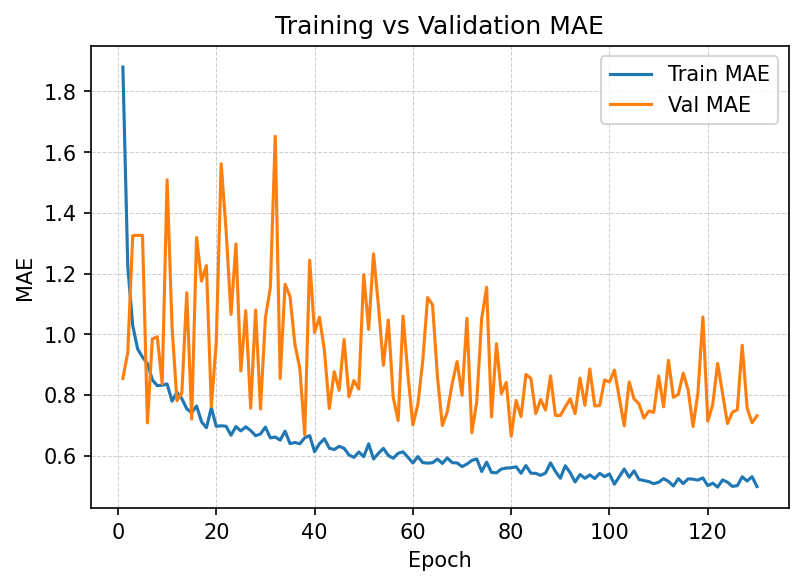
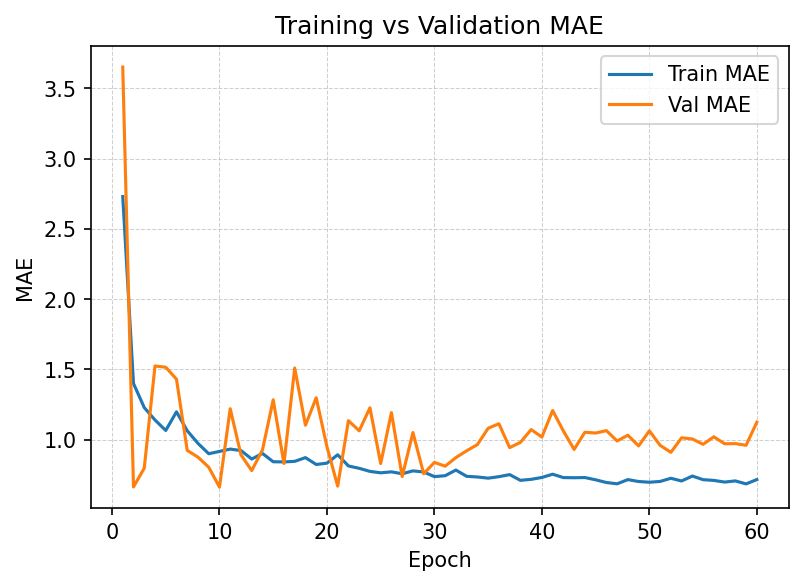
paramter changes

diff --git a/models/model_v4.2/train.py b/models/model_v4.2/train.py
@@ -2,13 +2,13 @@ import os
 import random
 from dataclasses import dataclass
 from pathlib import Path
-from typing import List, Tuple
+from typing import List, Sequence, Tuple
 
 import numpy as np
 import torch
 import torch.nn as nn
 import torch.optim as optim
-from torch.utils.data import DataLoader, Subset
+from torch.utils.data import DataLoader, Dataset, Subset
 
 from dataloader import PlantDatasetV4
 from model import LettuceMultiBranchCNN
@@ -25,16 +25,23 @@ class TrainConfig:
     rgb_dir: str = '../../datasets/Training/Augmented/RGBImages'
     depth_dir: str = '../../datasets/Training/Augmented/DepthImages'
 
-    batch_size: int = 64
+    batch_size: int = 64  
     num_epochs: int = 200
     lr: float = 1e-3    
     weight_decay: float = 1e-4
+    scheduler_factor: float = 0.5
+    scheduler_patience: int = 10
+    scheduler_min_lr: float = 1e-6
 
-    val_ratio: float = 0.2
+    val_ratio: float = 0.4
     seed: int = 42
     patience: int = 50
     # Matches 1 + num_aug_per_image from preprocess.py
     outputs_per_original: int = 31
+    num_folds: int = 3
+
+    preload_to_gpu: bool = False
+    preload_device: str = 'cuda'
 
     out_dir: str = '.'
 
@@ -57,8 +64,57 @@ def seed_worker(worker_id: int):
     random.seed(worker_seed)
 
 
-def make_loaders(cfg: TrainConfig) -> Tuple[DataLoader, DataLoader]:
-    full = PlantDatasetV4(
+class TensorDictDataset(Dataset):
+    """Simple dataset wrapper around preloaded tensors on any device."""
+
+    def __init__(self, rgb: torch.Tensor, rgbd: torch.Tensor, dry_weight: torch.Tensor):
+        self.rgb = rgb
+        self.rgbd = rgbd
+        self.dry_weight = dry_weight
+
+    def __len__(self) -> int:
+        return self.rgb.size(0)
+
+    def __getitem__(self, idx: int):
+        return {
+            'rgb': self.rgb[idx],
+            'rgbd': self.rgbd[idx],
+            'dry_weight': self.dry_weight[idx],
+        }
+
+
+def _unwrap_subset(dataset):
+    if isinstance(dataset, Subset):
+        return dataset.dataset, dataset.indices
+    return dataset, range(len(dataset))
+
+
+def preload_subset_to_device(dataset, device: torch.device, label: str) -> TensorDictDataset:
+    base_ds, indices = _unwrap_subset(dataset)
+
+    rgb_list: List[torch.Tensor] = []
+    rgbd_list: List[torch.Tensor] = []
+    target_list: List[torch.Tensor] = []
+
+    for idx in indices:
+        sample = base_ds[int(idx)]
+        rgb_list.append(sample['rgb'])
+        rgbd_list.append(sample['rgbd'])
+        target_list.append(sample['dry_weight'])
+
+    if not rgb_list:
+        raise ValueError(f'Cannot preload empty {label} dataset.')
+
+    rgb = torch.stack(rgb_list, dim=0).to(device, non_blocking=True)
+    rgbd = torch.stack(rgbd_list, dim=0).to(device, non_blocking=True)
+    targets = torch.stack(target_list, dim=0).to(device, non_blocking=True)
+
+    print(f"[preload] moved {rgb.shape[0]} {label} samples to {device}")
+    return TensorDictDataset(rgb, rgbd, targets)
+
+
+def _build_full_dataset(cfg: TrainConfig) -> PlantDatasetV4:
+    dataset = PlantDatasetV4(
         cfg.rgb_dir,
         cfg.depth_dir,
         cfg.train_csv,
@@ -67,45 +123,95 @@ def make_loaders(cfg: TrainConfig) -> Tuple[DataLoader, DataLoader]:
         enable_cache=True,
         num_views=1,
     )
-
-    if len(full.df) == 0:
+    if len(dataset.df) == 0:
         raise ValueError('No samples found in augmented CSV; check preprocessing paths.')
+    return dataset
 
-    has_original_ids = 'original_id' in full.df.columns
+
+def _compute_group_ids(full_df, cfg: TrainConfig) -> Tuple[np.ndarray, bool]:
+    has_original_ids = 'original_id' in full_df.columns
     if has_original_ids:
-        group_ids = full.df['original_id'].astype(int).to_numpy()
+        group_ids = full_df['original_id'].astype(int).to_numpy()
     else:
         outputs_per_original = max(1, int(cfg.outputs_per_original))
-        group_ids = ((full.df['id'].astype(int) - 1) // outputs_per_original).to_numpy()
+        group_ids = ((full_df['id'].astype(int) - 1) // outputs_per_original).to_numpy()
+    return group_ids, has_original_ids
+
+
+def _split_group_indices(
+    group_ids: np.ndarray,
+    cfg: TrainConfig,
+    has_original_ids: bool,
+) -> List[Tuple[List[int], List[int]]]:
     unique_groups = np.unique(group_ids)
     total_groups = len(unique_groups)
     if total_groups < 2:
-        raise ValueError('Need at least two unique originals to create a train/val split. Reduce val_ratio or add more data.')
+        raise ValueError('Need at least two unique originals to create a split. Reduce folds or gather more data.')
 
     rng = np.random.RandomState(cfg.seed)
     rng.shuffle(unique_groups)
 
-    val_group_count = max(1, int(round(total_groups * float(cfg.val_ratio))))
-    if val_group_count >= total_groups:
-        val_group_count = total_groups - 1
-    val_group_ids = set(unique_groups[:val_group_count])
+    num_folds = max(1, int(cfg.num_folds))
+    if num_folds > total_groups:
+        print(f"[kfold] Requested {num_folds} folds but only {total_groups} unique originals; capping folds at {total_groups}.")
+        num_folds = total_groups
 
-    base_indices = np.arange(len(full.df))
-    train_indices = [int(i) for i, g in zip(base_indices, group_ids) if g not in val_group_ids]
-    val_indices = [int(i) for i, g in zip(base_indices, group_ids) if g in val_group_ids]
+    splits: List[Tuple[List[int], List[int]]] = []
+    if num_folds > 1:
+        fold_groups = np.array_split(unique_groups, num_folds)
+        for fold_id, val_groups in enumerate(fold_groups, 1):
+            val_set = set(int(g) for g in val_groups)
+            train_idx = [int(i) for i, g in enumerate(group_ids) if g not in val_set]
+            val_idx = [int(i) for i, g in enumerate(group_ids) if g in val_set]
+            if not train_idx or not val_idx:
+                raise ValueError(f'Fold {fold_id} is empty. Reduce num_folds or ensure more originals are available.')
+            splits.append((train_idx, val_idx))
+    else:
+        val_group_count = max(1, int(round(total_groups * float(cfg.val_ratio))))
+        if val_group_count >= total_groups:
+            val_group_count = total_groups - 1
+        if val_group_count < 1:
+            raise ValueError('Validation split is empty. Increase val_ratio or collect more data.')
+        val_group_ids = set(unique_groups[:val_group_count])
+        train_idx = [int(i) for i, g in enumerate(group_ids) if g not in val_group_ids]
+        val_idx = [int(i) for i, g in enumerate(group_ids) if g in val_group_ids]
+        if not train_idx or not val_idx:
+            hint = 'Ensure original_id exists in the CSV' if has_original_ids else 'Adjust val_ratio or outputs_per_original'
+            raise ValueError(f'Group-based split resulted in empty train/val set. {hint}.')
+        splits.append((train_idx, val_idx))
 
-    if not train_indices or not val_indices:
-        hint = 'Ensure original_id exists in the CSV' if has_original_ids else 'Adjust val_ratio or outputs_per_original'
-        raise ValueError(f'Group-based split resulted in empty train/val set. {hint}.')
+    return splits
 
-    train_ds = Subset(full, train_indices)
-    val_ds = Subset(full, val_indices)
 
-    num_workers = 0 if os.name == 'nt' else 2
-    pin_memory = torch.cuda.is_available()
+def _build_dataloaders_from_indices(
+    full_ds: PlantDatasetV4,
+    train_idx: Sequence[int],
+    val_idx: Sequence[int],
+    cfg: TrainConfig,
+    label: str,
+) -> Tuple[DataLoader, DataLoader]:
+    train_ds: Dataset = Subset(full_ds, list(train_idx))
+    val_ds: Dataset = Subset(full_ds, list(val_idx))
+
+    preload_device = None
+    if cfg.preload_to_gpu:
+        try:
+            requested_device = torch.device(cfg.preload_device)
+        except Exception as exc:
+            print(f"[preload] invalid device '{cfg.preload_device}': {exc}. Falling back to CPU.")
+            requested_device = None
+
+        if requested_device is not None:
+            if requested_device.type == 'cuda' and not torch.cuda.is_available():
+                print('[preload] CUDA not available; skipping GPU preload.')
+            else:
+                preload_device = requested_device
+                train_ds = preload_subset_to_device(train_ds, preload_device, f'{label}-train')
+                val_ds = preload_subset_to_device(val_ds, preload_device, f'{label}-val')
+
+    num_workers = 0 if (os.name == 'nt' or preload_device is not None) else 2
+    pin_memory = torch.cuda.is_available() and preload_device is None
     g = torch.Generator().manual_seed(cfg.seed)
-
-    full.build_cache(max_base_items=None)
 
     loader_kwargs = {}
     if num_workers > 0:
@@ -136,6 +242,23 @@ def make_loaders(cfg: TrainConfig) -> Tuple[DataLoader, DataLoader]:
     return train_loader, val_loader
 
 
+def make_fold_loaders(cfg: TrainConfig) -> List[Tuple[DataLoader, DataLoader, str]]:
+    full = _build_full_dataset(cfg)
+    group_ids, has_original_ids = _compute_group_ids(full.df, cfg)
+    splits = _split_group_indices(group_ids, cfg, has_original_ids)
+
+    full.build_cache(max_base_items=None)
+
+    loaders: List[Tuple[DataLoader, DataLoader, str]] = []
+    multiple = len(splits) > 1
+    for fold_idx, (train_idx, val_idx) in enumerate(splits, 1):
+        label = f'fold{fold_idx}' if multiple else 'split'
+        train_loader, val_loader = _build_dataloaders_from_indices(full, train_idx, val_idx, cfg, label)
+        loaders.append((train_loader, val_loader, label))
+
+    return loaders
+
+
 class EarlyStopper:
     def __init__(self, patience: int):
         self.patience = int(patience)
@@ -155,7 +278,7 @@ def save_checkpoint(path: str, model: nn.Module):
     torch.save(model.state_dict(), path)
 
 
-def save_training_curves(train_history: List[float], val_history: List[float], out_dir: str) -> None:
+def save_training_curves(train_history: List[float], val_history: List[float], out_dir: str, suffix: str = '') -> None:
     if not train_history or not val_history:
         return
     if plt is None:
@@ -172,18 +295,35 @@ def save_training_curves(train_history: List[float], val_history: List[float], o
     ax.grid(True, linestyle='--', linewidth=0.5, alpha=0.6)
     ax.legend()
 
-    out_path = Path(out_dir) / 'training_curves.png'
+    out_name = f'training_curves{suffix}.png' if suffix else 'training_curves.png'
+    out_path = Path(out_dir) / out_name
     fig.savefig(out_path, dpi=150, bbox_inches='tight')
     plt.close(fig)
     print(f'Saved training curves to: {out_path}')
 
 
-def train_fusion_regressor(cfg: TrainConfig, model: LettuceMultiBranchCNN, train_loader, val_loader, device):
+def train_fusion_regressor(
+    cfg: TrainConfig,
+    model: LettuceMultiBranchCNN,
+    train_loader,
+    val_loader,
+    device,
+    fold_suffix: str = '',
+    fold_label: str = '',
+):
     criterion = nn.L1Loss()
     optimizer = optim.AdamW(model.parameters(), lr=cfg.lr, weight_decay=cfg.weight_decay)
+    scheduler = optim.lr_scheduler.ReduceLROnPlateau(
+        optimizer,
+        mode='min',
+        factor=cfg.scheduler_factor,
+        patience=cfg.scheduler_patience,
+        min_lr=cfg.scheduler_min_lr,
+    )
     stopper = EarlyStopper(cfg.patience)
 
-    best_path = str(Path(cfg.out_dir) / 'best_model_v4.pth')
+    best_name = f'best_model_v4{fold_suffix}.pth' if fold_suffix else 'best_model_v4.pth'
+    best_path = str(Path(cfg.out_dir) / best_name)
     train_history: List[float] = []
     val_history: List[float] = []
 
@@ -224,7 +364,9 @@ def train_fusion_regressor(cfg: TrainConfig, model: LettuceMultiBranchCNN, train
         val_mae = val_mae_sum / max(1, n_val)
         train_history.append(train_mae)
         val_history.append(val_mae)
-        print(f"[train] epoch {epoch+1}/{cfg.num_epochs} train_mae={train_mae:.4f} val_mae={val_mae:.4f}")
+        current_lr = optimizer.param_groups[0]['lr']
+        prefix = f"[train][{fold_label}]" if fold_label else '[train]'
+        print(f"{prefix} epoch {epoch+1}/{cfg.num_epochs} lr={current_lr:.3e} train_mae={train_mae:.4f} val_mae={val_mae:.4f}")
 
         if val_mae <= stopper.best:
             save_checkpoint(best_path, model)
@@ -232,7 +374,9 @@ def train_fusion_regressor(cfg: TrainConfig, model: LettuceMultiBranchCNN, train
             print(f"[train] early stop at epoch {epoch+1} (best val_mae={stopper.best:.4f})")
             break
 
-    return best_path, train_history, val_history
+        scheduler.step(val_mae)
+
+    return best_path, train_history, val_history, stopper.best
 
 
 def main():
@@ -242,14 +386,36 @@ def main():
     seed_everything(cfg.seed, deterministic=True)
     device = torch.device('cuda' if torch.cuda.is_available() else 'cpu')
 
-    train_loader, val_loader = make_loaders(cfg)
-    model = LettuceMultiBranchCNN().to(device)
+    fold_loaders = make_fold_loaders(cfg)
+    total_folds = len(fold_loaders)
+    fold_results = []
 
-    print('[train] training fusion regressor...')
-    best_full, train_hist, val_hist = train_fusion_regressor(cfg, model, train_loader, val_loader, device)
-    save_training_curves(train_hist, val_hist, cfg.out_dir)
+    for fold_idx, (train_loader, val_loader, label) in enumerate(fold_loaders, 1):
+        fold_suffix = f'_{label}' if total_folds > 1 else ''
+        model = LettuceMultiBranchCNN().to(device)
+        print(f"[train] training fusion regressor ({label})...")
+        best_full, train_hist, val_hist, best_val = train_fusion_regressor(
+            cfg,
+            model,
+            train_loader,
+            val_loader,
+            device,
+            fold_suffix=fold_suffix,
+            fold_label=label,
+        )
+        save_training_curves(train_hist, val_hist, cfg.out_dir, suffix=fold_suffix)
+        fold_results.append((label, best_full, best_val))
+        print(f"[train] fold {label} best checkpoint: {best_full} (val_mae={best_val:.4f})")
 
-    print(f"Done. Best full model saved to: {best_full}")
+    if total_folds > 1:
+        print('\nCross-validation summary:')
+        for label, path, best_val in fold_results:
+            print(f"  - {label}: best_val_mae={best_val:.4f} ({path})")
+        avg_val = float(np.mean([val for _, _, val in fold_results]))
+        print(f"Average best val MAE: {avg_val:.4f}")
+    else:
+        label, path, best_val = fold_results[0]
+        print(f"Done. Best full model saved to: {path} (val_mae={best_val:.4f})")
 
 
 if __name__ == '__main__':
